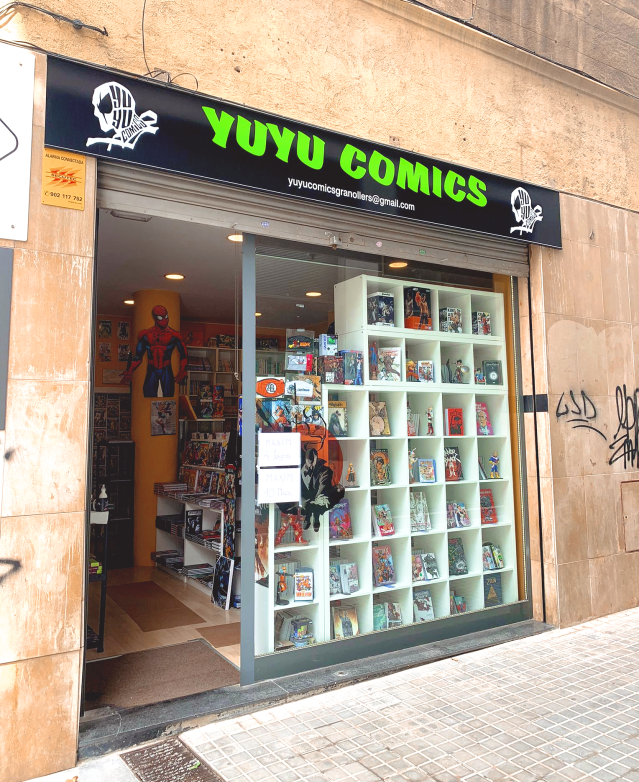
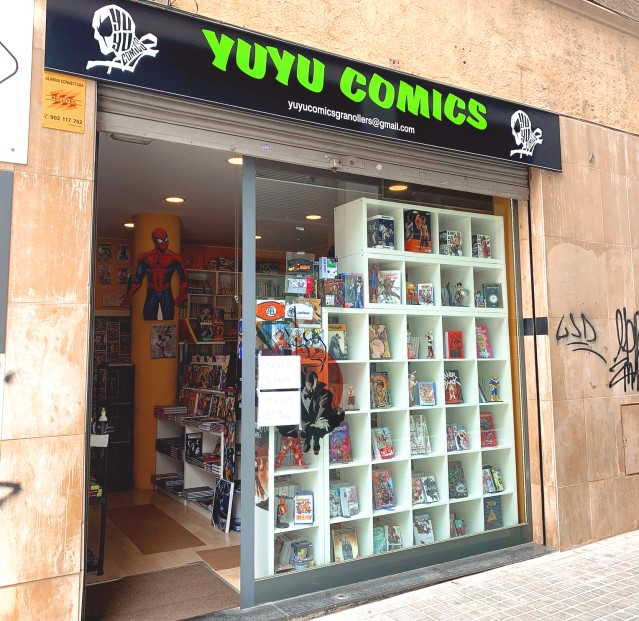
xD

diff --git a/aj/aj/index.html b/aj/aj/index.html
@@ -119,8 +119,8 @@
                         </div>
                         <div class="col-xl-5 col-lg-5 col-md-5 col-sm-12">
                            <div class="best_img">
-                              <h4>Best Design Of Ring</h4>
-                              <figure><img src="images/beimg.png"></figure>
+                              <h4>Local yuyu</h4>
+                              <figure><img src="images/Local yuyucomics.jpg"></figure>
                            </div>
                         </div>
                      </div>
@@ -200,7 +200,7 @@
                <div class="col-xl-7 col-lg-7 col-md-7 col-sm-12">
                   <div class="rable-box">
                      <figure>
-                     <img src="images/cac.png" alt="#" />
+                     <img src="images/Local per dins.png" alt="#" />
                   </div>
                </div>
             </div>
